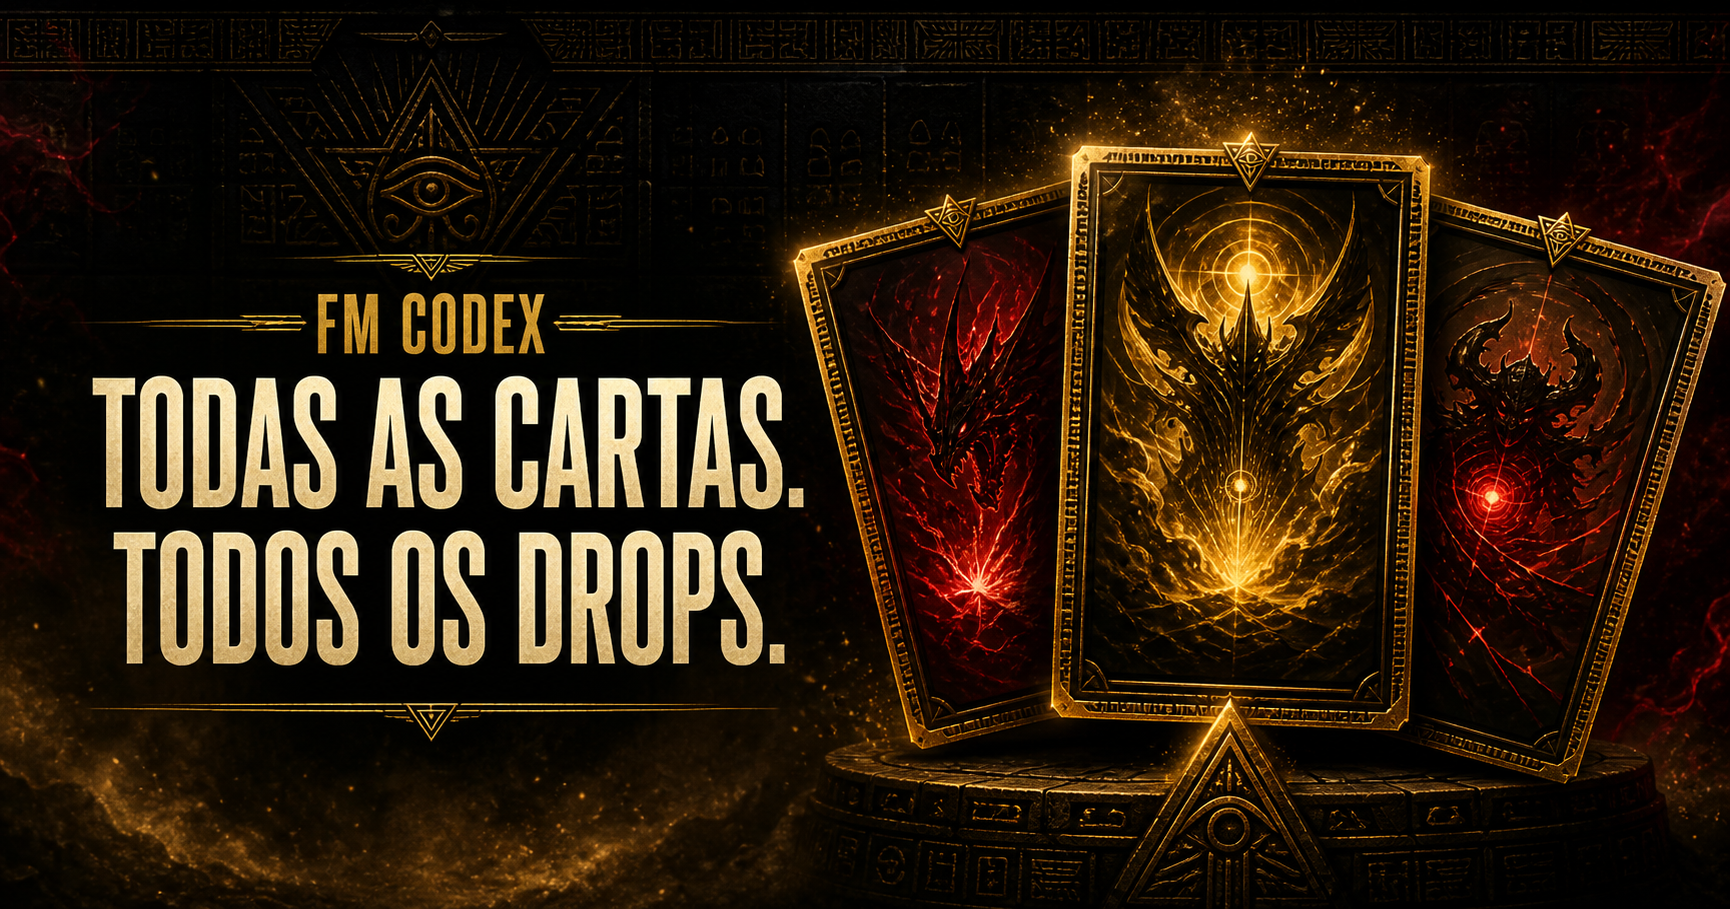
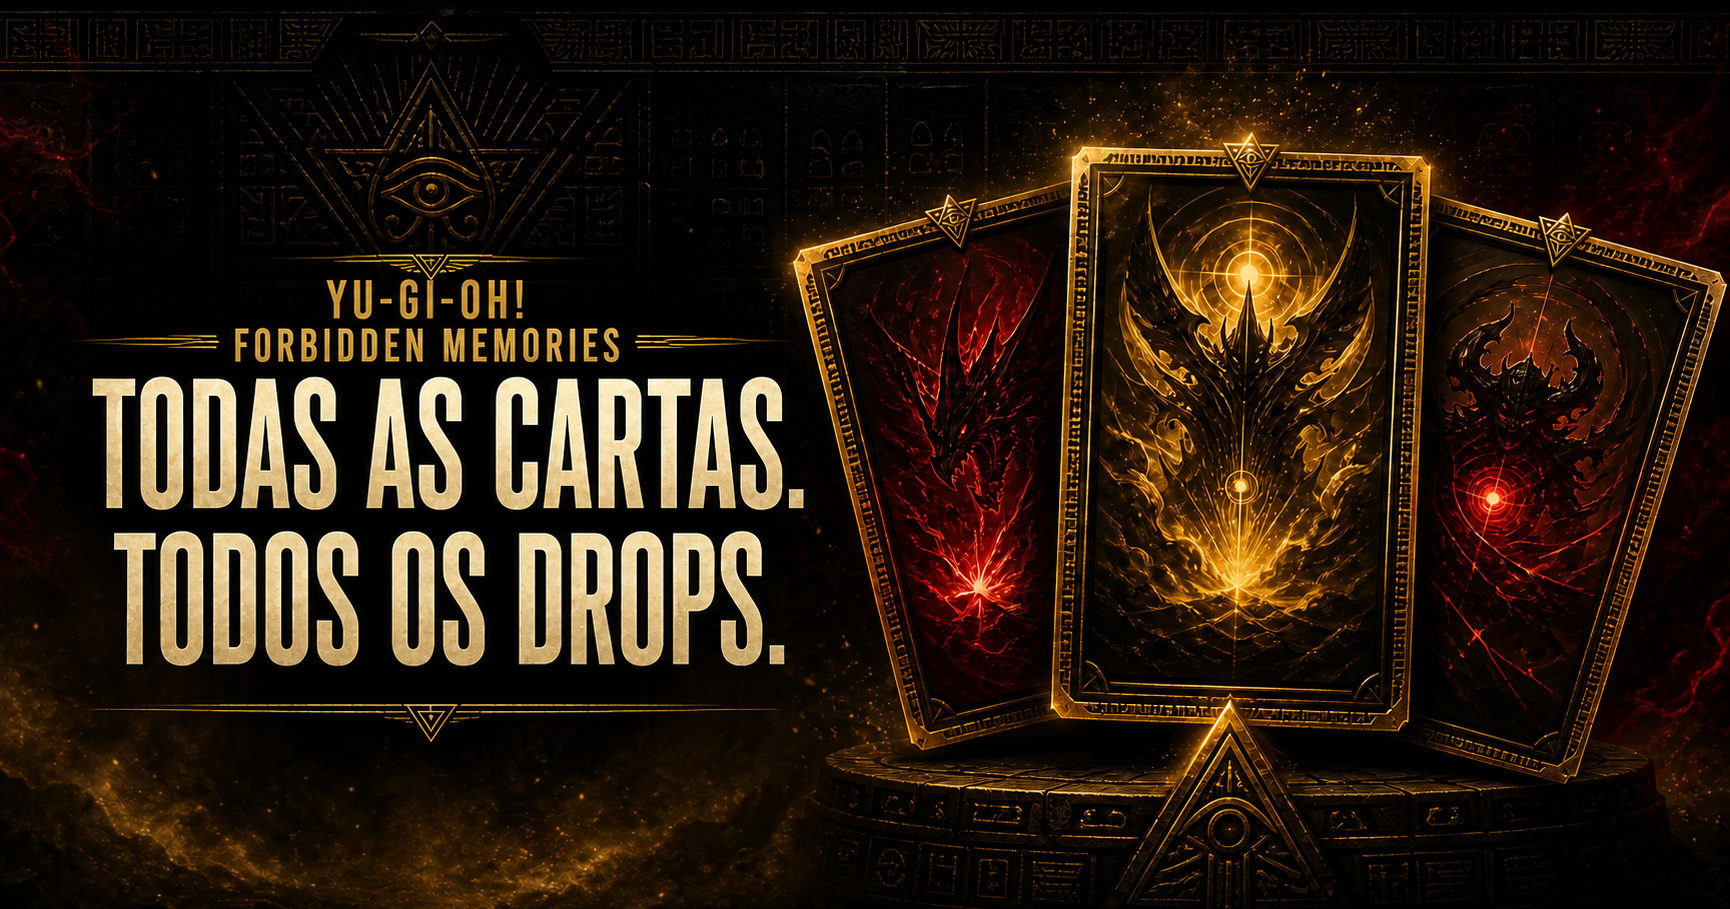
refactor: rename site to Yu-Gi-Oh Forbidden Memories

diff --git a/app/cartas/[slug]/page.tsx b/app/cartas/[slug]/page.tsx
@@ -9,13 +9,13 @@ import { CopyPassword } from "../../components/copy-password";
 
 type PageProps={params:Promise<{slug:string}>};
 
-const siteOrigin=(process.env.SITE_URL||"https://yugifbm.com").replace(/\/$/,"");
+const siteOrigin=(process.env.SITE_URL||"https://yugiohforbiddenmemories.com").replace(/\/$/,"");
 const siteUrl=(path:string)=>`${siteOrigin}${path.startsWith("/")?path:`/${path}`}`;
-const datasetCreator={"@type":"Organization",name:"FM Codex",url:siteOrigin};
+const datasetCreator={"@type":"Organization",name:"Yu-Gi-Oh! Forbidden Memories",url:siteOrigin};
 const datasetLicense="https://creativecommons.org/licenses/by/4.0/";
 
 export function generateStaticParams(){return localCards.map(card=>({slug:card.slug}))}
-export async function generateMetadata({params}:PageProps):Promise<Metadata>{const card=await getCard((await params).slug);if(!card)return{title:"Carta não encontrada | FM Codex"};const title=`${card.name}: drops, password e stats | FM Codex`;const description=`${card.name} (#${String(card.id).padStart(3,"0")}): password ${card.password}, ${card.atk} ATK, ${card.def} DEF e onde conseguir em Forbidden Memories.`;const image=getCardImage(card.slug);const requestHeaders=await headers();const host=requestHeaders.get("x-forwarded-host")||requestHeaders.get("host")||"localhost:3000";const protocol=requestHeaders.get("x-forwarded-proto")||(host.startsWith("localhost")?"http":"https");const socialImage=image?`${protocol}://${host}${image.src}`:undefined;return{title,description,openGraph:{title,description,images:socialImage?[{url:socialImage,width:image?.width,height:image?.height,alt:`Carta ${card.name}`}]:[]},twitter:{card:socialImage?"summary_large_image":"summary",title,description,images:socialImage?[socialImage]:[]}}}
+export async function generateMetadata({params}:PageProps):Promise<Metadata>{const card=await getCard((await params).slug);if(!card)return{title:"Carta não encontrada | Yu-Gi-Oh! Forbidden Memories"};const title=`${card.name}: drops, password e stats | Yu-Gi-Oh! Forbidden Memories`;const description=`${card.name} (#${String(card.id).padStart(3,"0")}): password ${card.password}, ${card.atk} ATK, ${card.def} DEF e onde conseguir em Forbidden Memories.`;const image=getCardImage(card.slug);const requestHeaders=await headers();const host=requestHeaders.get("x-forwarded-host")||requestHeaders.get("host")||"localhost:3000";const protocol=requestHeaders.get("x-forwarded-proto")||(host.startsWith("localhost")?"http":"https");const socialImage=image?`${protocol}://${host}${image.src}`:undefined;return{title,description,openGraph:{title,description,siteName:"Yu-Gi-Oh! Forbidden Memories",images:socialImage?[{url:socialImage,width:image?.width,height:image?.height,alt:`Carta ${card.name}`}]:[]},twitter:{card:socialImage?"summary_large_image":"summary",title,description,images:socialImage?[socialImage]:[]}}}
 
 export default async function CardPage({params}:PageProps){
   const card=await getCard((await params).slug);if(!card)return <main className="not-found"><p>404</p><h1>Carta não encontrada</h1><a href="/cartas/">Voltar para as cartas</a></main>;
@@ -49,7 +49,7 @@ export default async function CardPage({params}:PageProps){
 
       <section id="curiosidades" className="faq-exact"><div className="sec-h"><h2>Perguntas <span>frequentes</span></h2></div><div className="faq-exact-list">{faq.map((item,i)=><details open={i===0} key={item.q}><summary>{item.q}</summary><p>{item.a}</p></details>)}</div></section>
     </main>
-    <footer className="exact-footer"><div className="exact-wrap"><span>FM Codex — banco de dados de Forbidden Memories, em português.</span><span><b>▲</b> O site não hospeda arquivos. Apenas indexamos links externos.</span></div></footer>
+    <footer className="exact-footer"><div className="exact-wrap"><span>Yu-Gi-Oh! Forbidden Memories — banco de dados e guias em português.</span><span><b>▲</b> O site não hospeda arquivos. Apenas indexamos links externos.</span></div></footer>
     <script type="application/ld+json" dangerouslySetInnerHTML={{__html:JSON.stringify(jsonLd)}}/>
   </div>
 }

diff --git a/app/guias/[slug]/page.tsx b/app/guias/[slug]/page.tsx
@@ -6,8 +6,8 @@ type Props = { params: Promise<{ slug: string }> };
 
 export async function generateMetadata({ params }: Props): Promise<Metadata> {
   const guide = await getPublishedGuide((await params).slug);
-  if (!guide) return { title: "Guia não encontrado | FM Codex" };
-  const title = `${guide.title.rendered}: guia completo | FM Codex`;
+  if (!guide) return { title: "Guia não encontrado | Yu-Gi-Oh! Forbidden Memories" };
+  const title = `${guide.title.rendered}: guia completo | Yu-Gi-Oh! Forbidden Memories`;
   const images = guide.featuredImage ? [{ url: guide.featuredImage, alt: guide.featuredImageAlt || guide.title.rendered }] : [];
   return { title, description: guide.plainExcerpt, openGraph: { title, description: guide.plainExcerpt, type: "article", publishedTime: guide.date, modifiedTime: guide.modified, images }, twitter: { card: images.length ? "summary_large_image" : "summary", title, description: guide.plainExcerpt, images: images.map((image) => image.url) } };
 }
@@ -15,7 +15,7 @@ export async function generateMetadata({ params }: Props): Promise<Metadata> {
 export default async function GuidePage({ params }: Props) {
   const guide = await getPublishedGuide((await params).slug);
   if (!guide) return <PortalPage eyebrow="ERRO 404" title="Guia" accent="não encontrado" lead=""><section className="portal-section"><div className="shell"><a className="portal-button" href="/guias/">Ver guias</a></div></section></PortalPage>;
-  const schema = { "@context": "https://schema.org", "@graph": [{ "@type": "Article", headline: guide.title.rendered, description: guide.plainExcerpt, image: guide.featuredImage, datePublished: guide.date, dateModified: guide.modified || guide.date, author: { "@type": "Person", name: guide.authorName || "FM Codex" }, mainEntityOfPage: `/guias/${guide.slug}/` }, { "@type": "BreadcrumbList", itemListElement: [{ "@type": "ListItem", position: 1, name: "Início", item: "/" }, { "@type": "ListItem", position: 2, name: "Guias", item: "/guias/" }, { "@type": "ListItem", position: 3, name: guide.title.rendered }] }] };
+  const schema = { "@context": "https://schema.org", "@graph": [{ "@type": "Article", headline: guide.title.rendered, description: guide.plainExcerpt, image: guide.featuredImage, datePublished: guide.date, dateModified: guide.modified || guide.date, author: { "@type": "Person", name: guide.authorName || "Yu-Gi-Oh! Forbidden Memories" }, mainEntityOfPage: `/guias/${guide.slug}/` }, { "@type": "BreadcrumbList", itemListElement: [{ "@type": "ListItem", position: 1, name: "Início", item: "/" }, { "@type": "ListItem", position: 2, name: "Guias", item: "/guias/" }, { "@type": "ListItem", position: 3, name: guide.title.rendered }] }] };
   return <PortalPage eyebrow={`${guide.category} · ${new Date(guide.date).toLocaleDateString("pt-BR")}`} title={guide.title.rendered} accent="" lead={guide.plainExcerpt}>
     <article className="guide-wp-article"><div className="shell article-layout"><aside><b>Publicado no WordPress</b>{guide.authorName && <span>{guide.authorName}</span>}<time dateTime={guide.date}>{new Date(guide.date).toLocaleDateString("pt-BR")}</time><a href="/guias/">Todos os guias</a></aside><div className="article-body">{guide.featuredImage && <img className="wp-featured-image" src={guide.featuredImage} alt={guide.featuredImageAlt || guide.title.rendered}/>}<div className="wp-content" dangerouslySetInnerHTML={{ __html: guide.content?.rendered || "" }}/></div></div></article>
     <SchemaScript data={schema}/>

diff --git a/app/blog/[slug]/page.tsx b/app/blog/[slug]/page.tsx
@@ -6,8 +6,8 @@ type Props = { params: Promise<{ slug: string }> };
 
 export async function generateMetadata({ params }: Props): Promise<Metadata> {
   const post = await getPublishedPost((await params).slug);
-  if (!post) return { title: "Artigo não encontrado | FM Codex" };
-  const title = `${post.title.rendered} | FM Codex`;
+  if (!post) return { title: "Artigo não encontrado | Yu-Gi-Oh! Forbidden Memories" };
+  const title = `${post.title.rendered} | Yu-Gi-Oh! Forbidden Memories`;
   const description = post.plainExcerpt;
   const images = post.featuredImage ? [{ url: post.featuredImage, alt: post.featuredImageAlt || post.title.rendered }] : [];
   return { title, description, openGraph: { title, description, type: "article", publishedTime: post.date, modifiedTime: post.modified, images }, twitter: { card: images.length ? "summary_large_image" : "summary", title, description, images: images.map((image) => image.url) } };
@@ -16,7 +16,7 @@ export async function generateMetadata({ params }: Props): Promise<Metadata> {
 export default async function BlogPost({ params }: Props) {
   const post = await getPublishedPost((await params).slug);
   if (!post) return <PortalPage eyebrow="ERRO 404" title="Artigo" accent="não encontrado" lead=""><section className="portal-section"><div className="shell"><a className="portal-button" href="/blog/">Voltar ao blog</a></div></section></PortalPage>;
-  const schema = { "@context": "https://schema.org", "@graph": [{ "@type": "BlogPosting", headline: post.title.rendered, description: post.plainExcerpt, image: post.featuredImage, datePublished: post.date, dateModified: post.modified || post.date, author: { "@type": "Person", name: post.authorName || "FM Codex" }, mainEntityOfPage: `/blog/${post.slug}/` }, { "@type": "BreadcrumbList", itemListElement: [{ "@type": "ListItem", position: 1, name: "Início", item: "/" }, { "@type": "ListItem", position: 2, name: "Blog", item: "/blog/" }, { "@type": "ListItem", position: 3, name: post.title.rendered }] }] };
+  const schema = { "@context": "https://schema.org", "@graph": [{ "@type": "BlogPosting", headline: post.title.rendered, description: post.plainExcerpt, image: post.featuredImage, datePublished: post.date, dateModified: post.modified || post.date, author: { "@type": "Person", name: post.authorName || "Yu-Gi-Oh! Forbidden Memories" }, mainEntityOfPage: `/blog/${post.slug}/` }, { "@type": "BreadcrumbList", itemListElement: [{ "@type": "ListItem", position: 1, name: "Início", item: "/" }, { "@type": "ListItem", position: 2, name: "Blog", item: "/blog/" }, { "@type": "ListItem", position: 3, name: post.title.rendered }] }] };
   return <PortalPage eyebrow={`${post.category || "BLOG"} · ${new Date(post.date).toLocaleDateString("pt-BR")}`} title={post.title.rendered} accent="" lead={post.plainExcerpt}>
     <article className="blog-article"><div className="shell article-layout"><aside><b>Publicado no WordPress</b>{post.authorName && <span>{post.authorName}</span>}<time dateTime={post.date}>{new Date(post.date).toLocaleDateString("pt-BR")}</time><a href="/blog/">Todos os artigos</a></aside><div className="article-body">{post.featuredImage && <img className="wp-featured-image" src={post.featuredImage} alt={post.featuredImageAlt || post.title.rendered}/>}<div className="wp-content" dangerouslySetInnerHTML={{ __html: post.content?.rendered || "" }}/></div></div></article>
     <SchemaScript data={schema}/>

diff --git a/app/page.tsx b/app/page.tsx
@@ -2,6 +2,7 @@ import { getCardImage } from "../lib/card-images";
 import { getPublishedPosts } from "../lib/wordpress";
 import { getCards, getDuelists } from "../lib/data";
 import { CardVisual } from "./components/card-visual";
+import { SchemaScript } from "./components/portal-components";
 import { SiteFooter } from "./components/site-footer";
 import { SiteHeader } from "./components/site-header";
 
@@ -27,6 +28,9 @@ const explore = [
   { icon:"☆", title:"Cheats & Estrelas infinitas", text:"Truques, códigos e muito mais.", href:"/guias/" },
 ];
 export default async function Home() {
+  const siteOrigin = (process.env.SITE_URL || "https://yugiohforbiddenmemories.com").replace(/\/$/, "");
+  const organizationId = `${siteOrigin}/#organization`;
+  const websiteSchema = { "@context": "https://schema.org", "@graph": [{ "@type": "WebSite", "@id": `${siteOrigin}/#website`, url: `${siteOrigin}/`, name: "Yu-Gi-Oh! Forbidden Memories", inLanguage: "pt-BR", publisher: { "@id": organizationId } }, { "@type": "Organization", "@id": organizationId, name: "Yu-Gi-Oh! Forbidden Memories", url: `${siteOrigin}/`, logo: { "@type": "ImageObject", url: `${siteOrigin}/logo.png` } }] };
   const [wp, allCards, allDuelists] = await Promise.all([getPublishedPosts(), getCards(), getDuelists()]);
   const posts = wp;
   const cardsBySlug = new Map(allCards.map((card) => [card.slug, card]));
@@ -59,6 +63,7 @@ export default async function Home() {
     <section className="template-ad-section"><div className="shell"><aside className="template-ad"><div><b>Espaço publicitário · Fase 2 (opcional)</b><small>Slot reservado para AdSense — ativado quando a conta for aprovada.</small></div></aside></div></section>
 
     <section className="template-section"><div className="shell"><div className="template-section-head"><h2>Do <span>blog</span></h2><a href="/blog/">Ver todos os posts →</a></div><div className="template-posts">{posts.slice(0,3).map((post,index)=><a className="template-post" href={`/blog/${post.slug}/`} key={post.slug}><div className={`post-cover cover-${index+1}`}>{post.featuredImage?<img src={post.featuredImage} alt={post.featuredImageAlt||post.title.rendered} loading="lazy"/>:<b>{["𓂀","☥","✦"][index]}</b>}</div><div><h3>{post.title.rendered}</h3><span>{post.plainExcerpt}</span></div></a>)}</div></div></section>
+    <SchemaScript data={websiteSchema} />
     <SiteFooter />
   </main>;
 }

diff --git a/app/passwords/[tipo]/page.tsx b/app/passwords/[tipo]/page.tsx
@@ -6,5 +6,5 @@ import { PortalHeading, PortalPage, SchemaScript } from "../../components/portal
 
 type Props = { params: Promise<{ tipo: string }> };
 export function generateStaticParams() { return [...new Set(localCards.map((card) => taxonomySlug(card.type)))].map((tipo) => ({ tipo })); }
-export async function generateMetadata({ params }: Props): Promise<Metadata> { const tipo = (await params).tipo; return { title: `Passwords de cartas ${tipo} | FM Codex`, description: `Códigos e stats das cartas do tipo ${tipo} em Forbidden Memories.` }; }
+export async function generateMetadata({ params }: Props): Promise<Metadata> { const tipo = (await params).tipo; return { title: `Passwords de cartas ${tipo} | Yu-Gi-Oh! Forbidden Memories`, description: `Códigos e stats das cartas do tipo ${tipo} em Forbidden Memories.` }; }
 export default async function PasswordTypePage({ params }: Props) { const raw = (await params).tipo; const cards = await getCards(); const filtered = cards.filter((card) => taxonomySlug(card.type) === taxonomySlug(raw) && card.password); const label = filtered[0]?.type || raw; const schema = { "@context": "https://schema.org", "@type": "ItemList", name: `Passwords de cartas ${label}`, itemListElement: filtered.map((card, index) => ({ "@type": "ListItem", position: index + 1, name: card.name, description: `Password ${card.password}` })) }; return <PortalPage eyebrow="PASSWORDS POR TIPO" title="Códigos de" accent={label} lead={`Lista indexável de passwords das cartas ${label} cadastradas.`}><section className="portal-section"><div className="shell"><PortalHeading title={`${filtered.length} cartas`} accent="encontradas"/><div className="password-card-grid">{filtered.map((card) => <a href={`/cartas/${card.slug}/`} key={card.slug}><small>#{String(card.id).padStart(3, "0")} · {card.attribute}</small><h2>{card.name}</h2><b>{card.password}</b><p>ATK {card.atk} · DEF {card.def}</p></a>)}</div><a className="portal-back" href="/passwords/">← Voltar para todos os passwords</a></div></section><SchemaScript data={schema}/></PortalPage>; }

diff --git a/app/blog/page.tsx b/app/blog/page.tsx
@@ -2,12 +2,12 @@ import type { Metadata } from "next";
 import { getPublishedPosts } from "../../lib/wordpress";
 import { PortalHeading, PortalPage, SchemaScript } from "../components/portal-components";
 
-export const metadata: Metadata = { title: "Blog de Yu-Gi-Oh! Forbidden Memories | FM Codex", description: "Posts publicados no WordPress sobre Forbidden Memories." };
+export const metadata: Metadata = { title: "Blog | Yu-Gi-Oh! Forbidden Memories", description: "Posts publicados no WordPress sobre Forbidden Memories." };
 
 export default async function BlogPage() {
   const posts = await getPublishedPosts();
   const featured = posts[0];
-  const schema = { "@context": "https://schema.org", "@type": "Blog", name: "Blog FM Codex", blogPost: posts.map((post) => ({ "@type": "BlogPosting", headline: post.title.rendered, image: post.featuredImage, datePublished: post.date, url: `/blog/${post.slug}/` })) };
+  const schema = { "@context": "https://schema.org", "@type": "Blog", name: "Blog Yu-Gi-Oh! Forbidden Memories", blogPost: posts.map((post) => ({ "@type": "BlogPosting", headline: post.title.rendered, image: post.featuredImage, datePublished: post.date, url: `/blog/${post.slug}/` })) };
   return <PortalPage eyebrow="EDITORIAL · WORDPRESS" title="Do" accent="blog" lead="Notícias, listas, história e estratégias publicadas no WordPress.">
     {featured ? <>
       <section className="portal-section"><div className="shell"><article className="featured-post"><a className="featured-art" href={`/blog/${featured.slug}/`}>{featured.featuredImage ? <img src={featured.featuredImage} alt={featured.featuredImageAlt || featured.title.rendered} /> : <span>DESTAQUE</span>}</a><div><small>{featured.category || "BLOG"} · {new Date(featured.date).toLocaleDateString("pt-BR")}</small><h2>{featured.title.rendered}</h2><p>{featured.plainExcerpt}</p><a href={`/blog/${featured.slug}/`}>Ler artigo completo →</a></div></article></div></section>

diff --git a/app/layout.tsx b/app/layout.tsx
@@ -3,16 +3,19 @@ import { headers } from "next/headers";
 import "./globals.css";
 
 export async function generateMetadata(): Promise<Metadata> {
+  const siteOrigin = (process.env.SITE_URL || "https://yugiohforbiddenmemories.com").replace(/\/$/, "");
   const requestHeaders = await headers();
   const host = requestHeaders.get("x-forwarded-host") || requestHeaders.get("host") || "localhost:3000";
   const protocol = requestHeaders.get("x-forwarded-proto") || (host.startsWith("localhost") ? "http" : "https");
   const image = `${protocol}://${host}/og.png`;
-  const title = "FM Codex — Cartas, Drops e Guias de Forbidden Memories";
+  const title = "Yu-Gi-Oh! Forbidden Memories — Cartas, Drops e Guias";
   const description = "Encontre cartas, passwords, drops e as melhores rotas de farm de Yu-Gi-Oh! Forbidden Memories em português.";
   return {
+    metadataBase: new URL(siteOrigin),
+    applicationName: "Yu-Gi-Oh! Forbidden Memories",
     title,
     description,
-    openGraph: { title, description, images: [{ url: image, width: 1200, height: 630, alt: "FM Codex — Todas as cartas, todos os drops" }] },
+    openGraph: { title, description, siteName: "Yu-Gi-Oh! Forbidden Memories", images: [{ url: image, width: 1730, height: 909, alt: "Yu-Gi-Oh! Forbidden Memories — Todas as cartas, todos os drops" }] },
     twitter: { card: "summary_large_image", title, description, images: [image] },
   };
 }

diff --git a/app/drops/[slug]/[pool]/page.tsx b/app/drops/[slug]/[pool]/page.tsx
@@ -14,8 +14,8 @@ export async function generateMetadata({ params }: Props): Promise<Metadata> {
   const values = await params;
   const duelist = await getDuelist(values.slug);
   const pool = valid.includes(values.pool as PoolKey) ? values.pool as PoolKey : undefined;
-  if (!duelist || !pool) return { title: "Bolsa não encontrada | FM Codex" };
-  const title = `Drops ${labels[pool]} de ${duelist.name} | FM Codex`;
+  if (!duelist || !pool) return { title: "Bolsa não encontrada | Yu-Gi-Oh! Forbidden Memories" };
+  const title = `Drops ${labels[pool]} de ${duelist.name} | Yu-Gi-Oh! Forbidden Memories`;
   const description = `${duelist.name}: cartas, tipos e probabilidades da bolsa ${labels[pool]} em Forbidden Memories.`;
   const images = duelist.heroImage ? [{ url: duelist.heroImage, alt: duelist.name }] : [];
   return { title, description, openGraph: { title, description, images }, twitter: { card: images.length ? "summary_large_image" : "summary", title, description, images: images.map((image) => image.url) } };

diff --git a/app/drops/page.tsx b/app/drops/page.tsx
@@ -2,7 +2,7 @@ import type { Metadata } from "next";
 import { getDuelists } from "../../lib/data";
 import { PortalHeading, PortalPage, SchemaScript } from "../components/portal-components";
 
-export const metadata: Metadata = { title: "Drops de Forbidden Memories por duelista | FM Codex", description: "Consulte personagens, pools S/A POW, S/A TEC e B-C-D e descubra quais cartas cada duelista pode dropar." };
+export const metadata: Metadata = { title: "Drops por duelista | Yu-Gi-Oh! Forbidden Memories", description: "Consulte personagens, pools S/A POW, S/A TEC e B-C-D e descubra quais cartas cada duelista pode dropar." };
 export default async function DropsPage() {
   const duelists = await getDuelists();
   const schema = { "@context": "https://schema.org", "@type": "CollectionPage", name: "Drops de Yu-Gi-Oh! Forbidden Memories", mainEntity: { "@type": "ItemList", itemListElement: duelists.map((duelist, index) => ({ "@type": "ListItem", position: index + 1, name: duelist.name, url: `/drops/${duelist.slug}/` })) } };

diff --git a/app/drops/[slug]/page.tsx b/app/drops/[slug]/page.tsx
@@ -10,8 +10,8 @@ export function generateStaticParams() { return localDuelists.map((duelist) => (
 
 export async function generateMetadata({ params }: Props): Promise<Metadata> {
   const duelist = await getDuelist((await params).slug);
-  if (!duelist) return { title: "Duelista não encontrado | FM Codex" };
-  const title = `Drops do ${duelist.name}: cartas, taxas e ranks | FM Codex`;
+  if (!duelist) return { title: "Duelista não encontrado | Yu-Gi-Oh! Forbidden Memories" };
+  const title = `Drops do ${duelist.name}: cartas, taxas e ranks | Yu-Gi-Oh! Forbidden Memories`;
   const description = duelist.answer || duelist.about || `Drops de ${duelist.name} em Yu-Gi-Oh! Forbidden Memories.`;
   const images = duelist.heroImage ? [{ url: duelist.heroImage, alt: duelist.name }] : [];
   return { title, description, openGraph: { title, description, images }, twitter: { card: images.length ? "summary_large_image" : "summary", title, description, images: images.map((image) => image.url) } };

diff --git a/app/passwords/page.tsx b/app/passwords/page.tsx
@@ -3,7 +3,7 @@ import { getCards } from "../../lib/data";
 import { taxonomySlug } from "../../lib/wordpress-data";
 import { PortalHeading, PortalPage, SchemaScript } from "../components/portal-components";
 
-export const metadata: Metadata = { title: "Passwords de Forbidden Memories: lista de códigos | FM Codex", description: "Tabela de passwords das cartas com ID, tipo, atributo, ATK, DEF e custo em estrelas." };
+export const metadata: Metadata = { title: "Passwords: lista de códigos | Yu-Gi-Oh! Forbidden Memories", description: "Tabela de passwords das cartas com ID, tipo, atributo, ATK, DEF e custo em estrelas." };
 
 export default async function PasswordsPage({ searchParams }: { searchParams: Promise<{ busca?: string }> }) {
   const cards = await getCards();

diff --git a/app/mods/[slug]/page.tsx b/app/mods/[slug]/page.tsx
@@ -6,8 +6,8 @@ type Props = { params: Promise<{ slug: string }> };
 
 export async function generateMetadata({ params }: Props): Promise<Metadata> {
   const mod = await getMod((await params).slug);
-  if (!mod) return { title: "MOD não encontrado | FM Codex" };
-  const title = `${mod.name} | FM Codex`;
+  if (!mod) return { title: "MOD não encontrado | Yu-Gi-Oh! Forbidden Memories" };
+  const title = `${mod.name} | Yu-Gi-Oh! Forbidden Memories`;
   const images = mod.image ? [{ url: mod.image, alt: mod.name }] : [];
   return { title, description: mod.summary, openGraph: { title, description: mod.summary, images }, twitter: { card: images.length ? "summary_large_image" : "summary", title, description: mod.summary, images: images.map((image) => image.url) } };
 }
